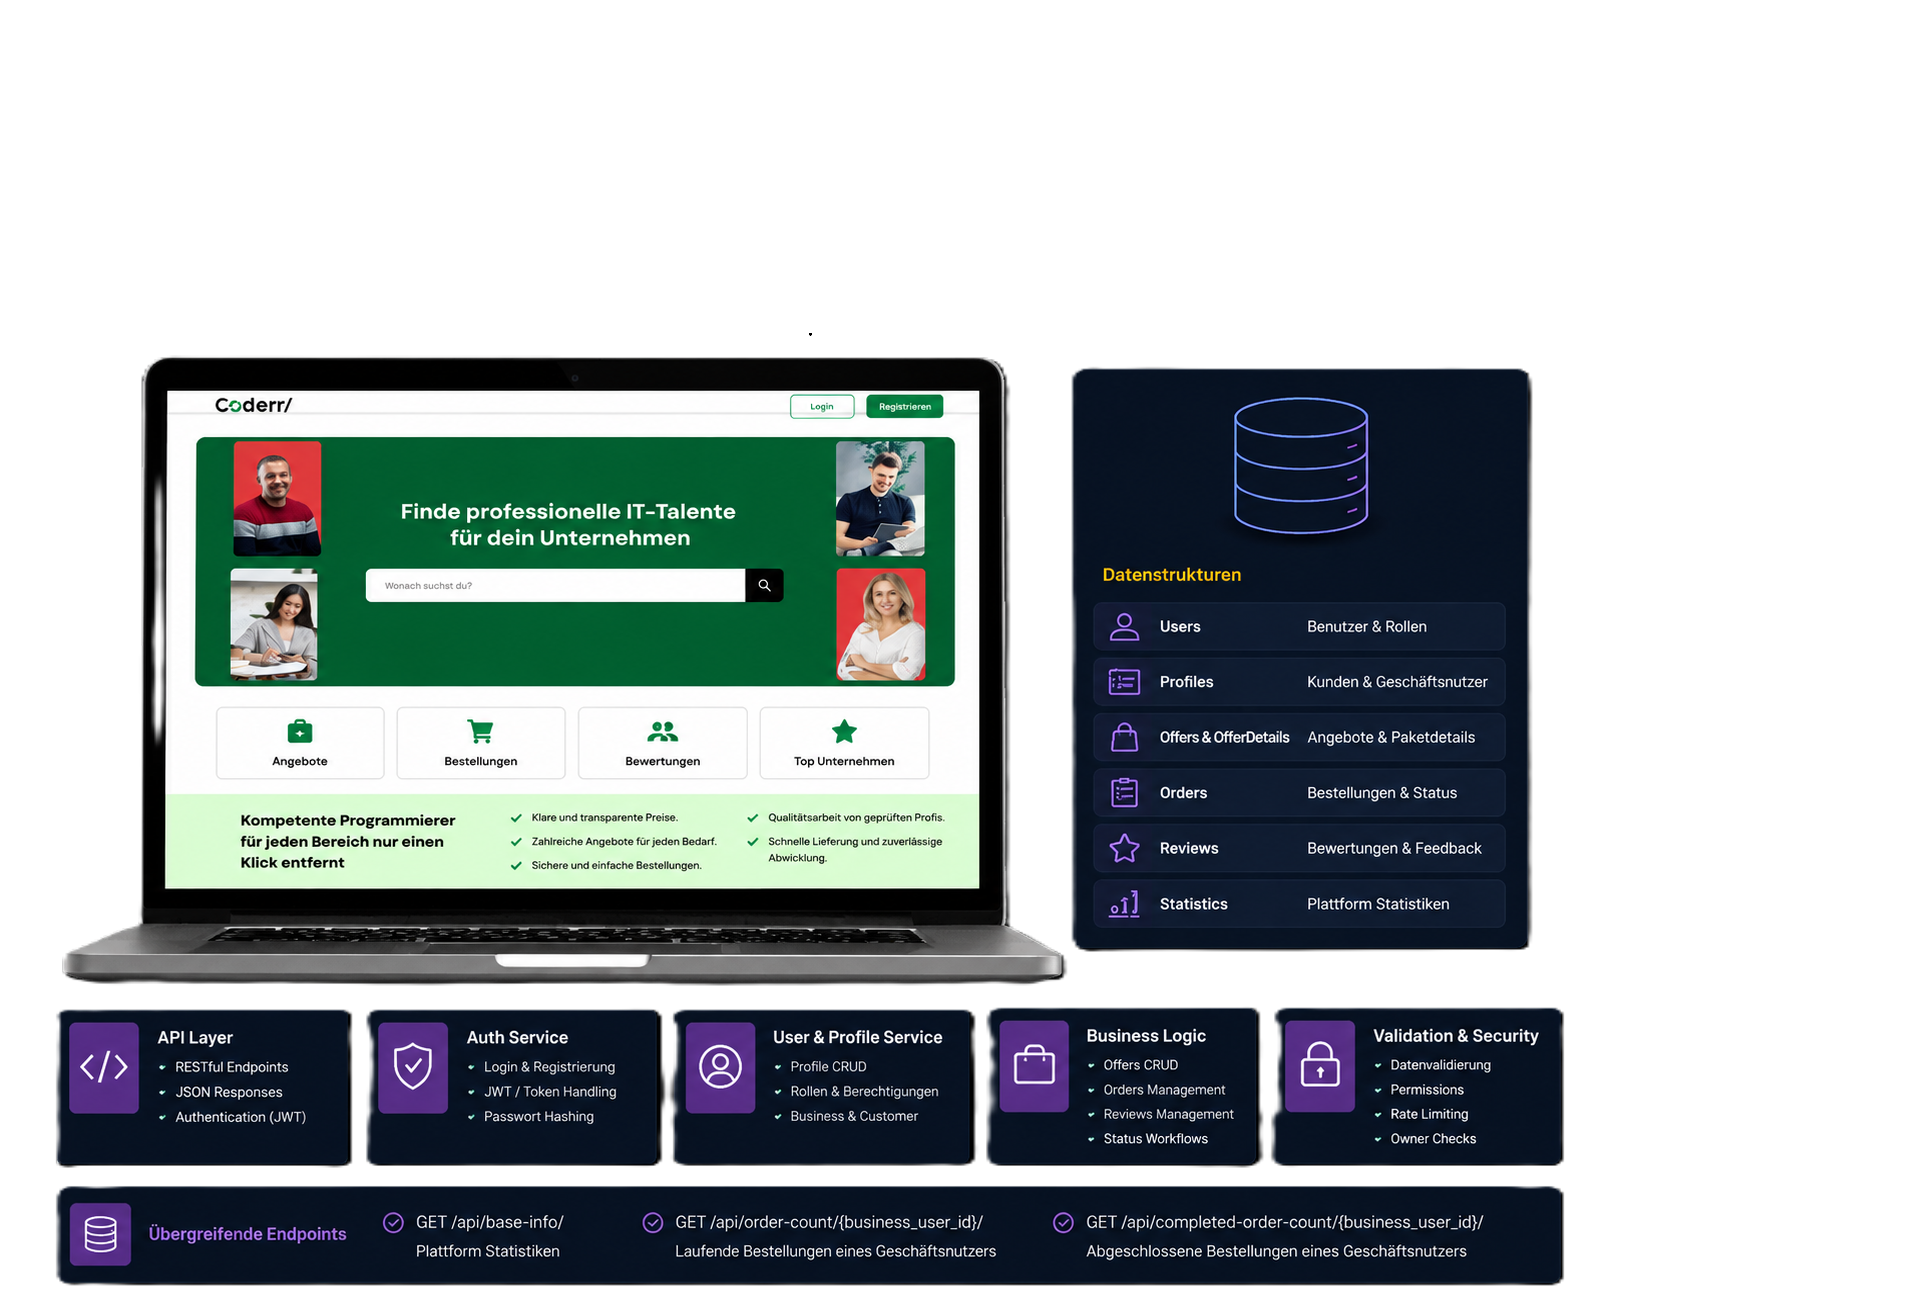
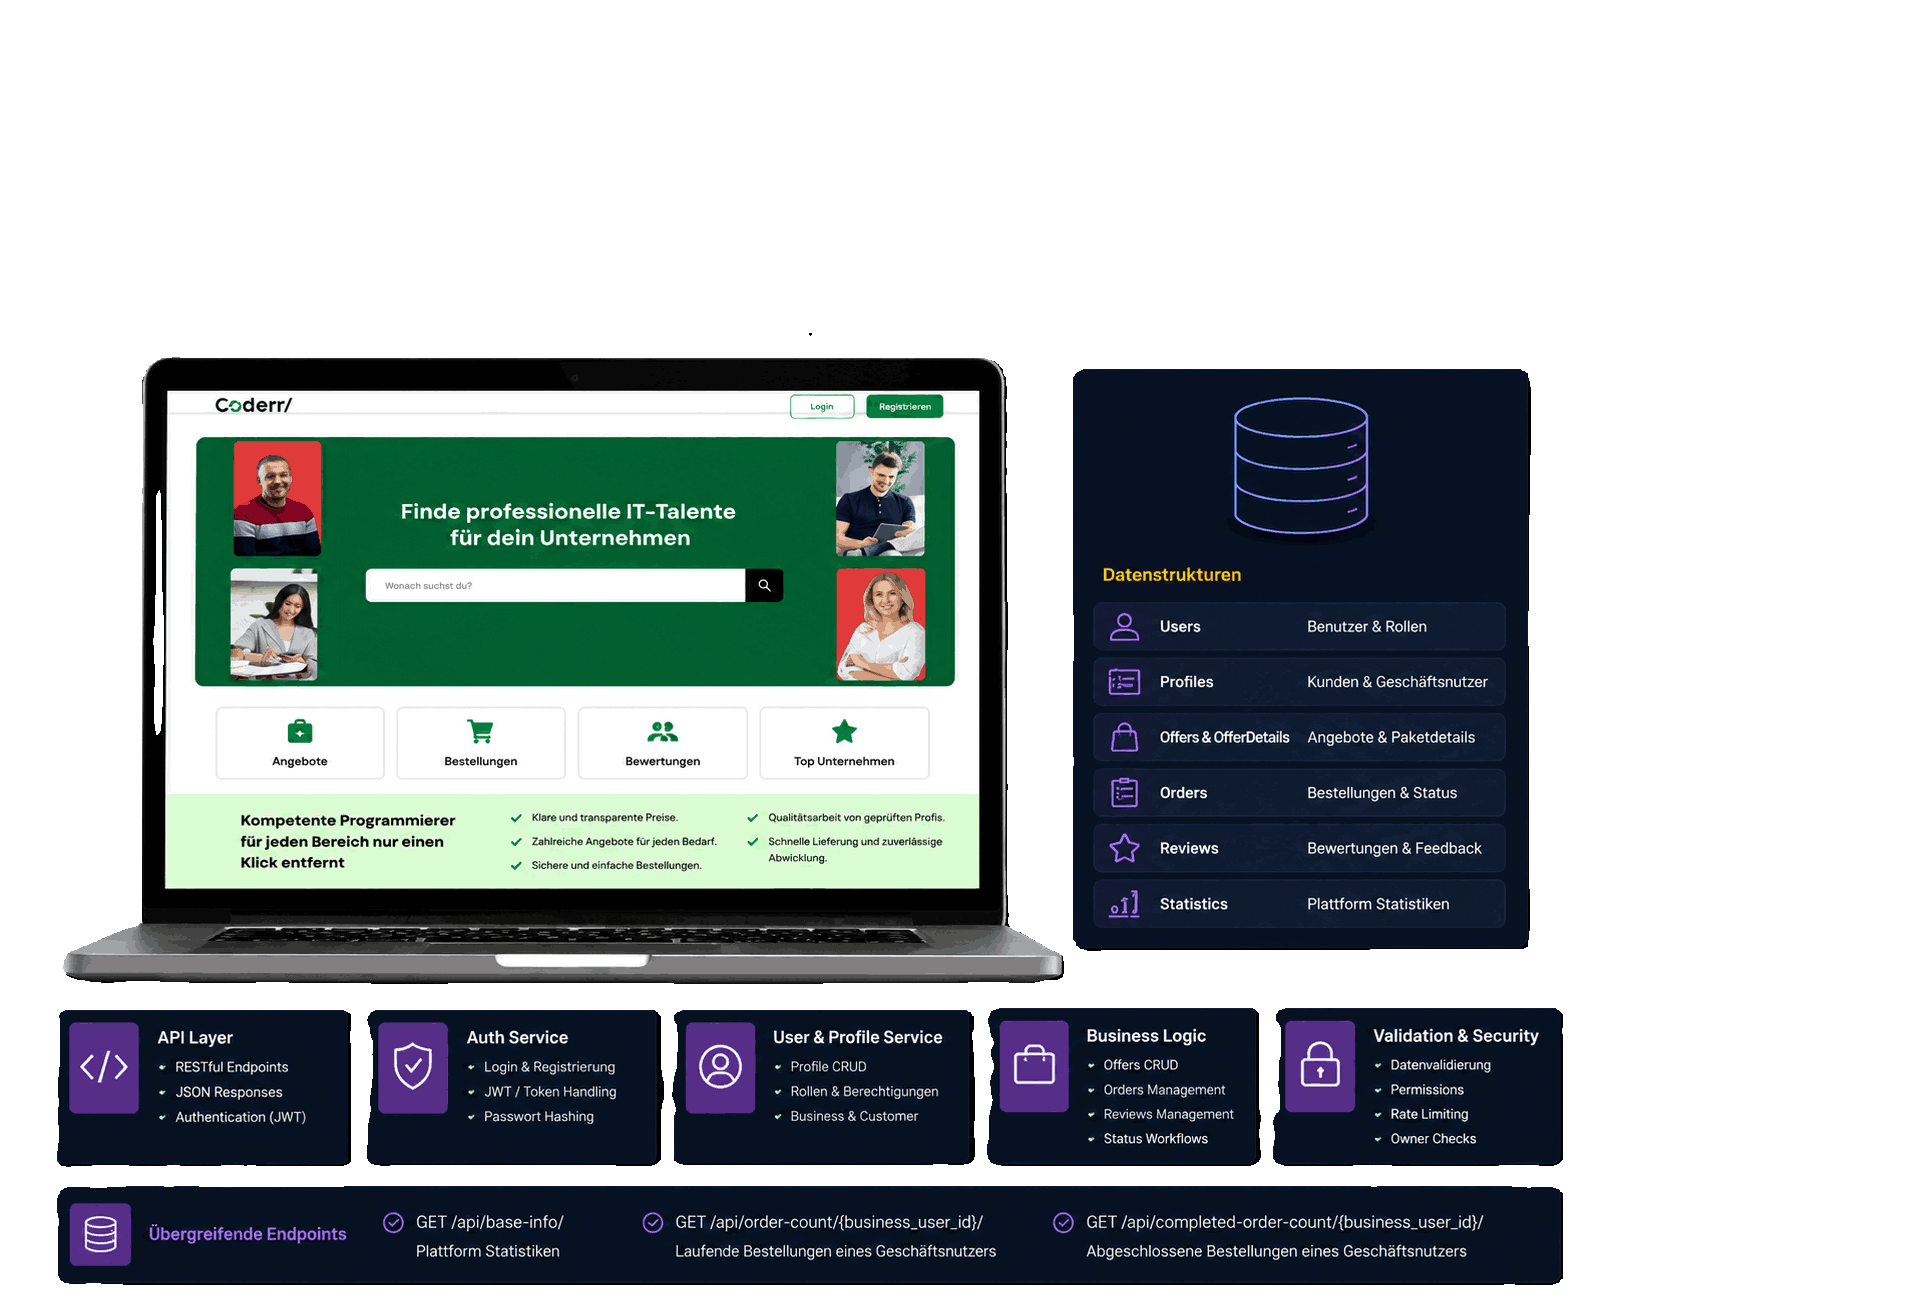
Design: new pcitures integrated and certifications changed

diff --git a/src/app/main/certifications/certifications.html b/src/app/main/certifications/certifications.html
@@ -1,9 +1,11 @@
 <div id="mycertifications" class="certificates_main">
     <!-- Purple Background -->
+    <!--
+
     <div class="purple_shadow_left_wrapper">
         <img src="assets/icons/Purple_shadow_L1.png" alt="Purple Shadow" />
     </div>
-
+-->
     <!-- Headline -->
     <div class="certificates_box">
         <div class="column_1"></div>

diff --git a/src/app/main/certifications/certifications.scss b/src/app/main/certifications/certifications.scss
@@ -13,8 +13,9 @@
     .purple_shadow_left_wrapper {
         position: absolute;
         top: 150px;
+        bottom: -150px;
         left: 0;
-        z-index: 0;
+        z-index: 1;
         pointer-events: none;
 
         img {

diff --git a/src/app/main/main.scss b/src/app/main/main.scss
@@ -43,6 +43,7 @@
       object-fit: fill;
     }
   }
+  
 
   @media (max-width: 1220px) {
     .overlay_div_1 .overlay_img {
